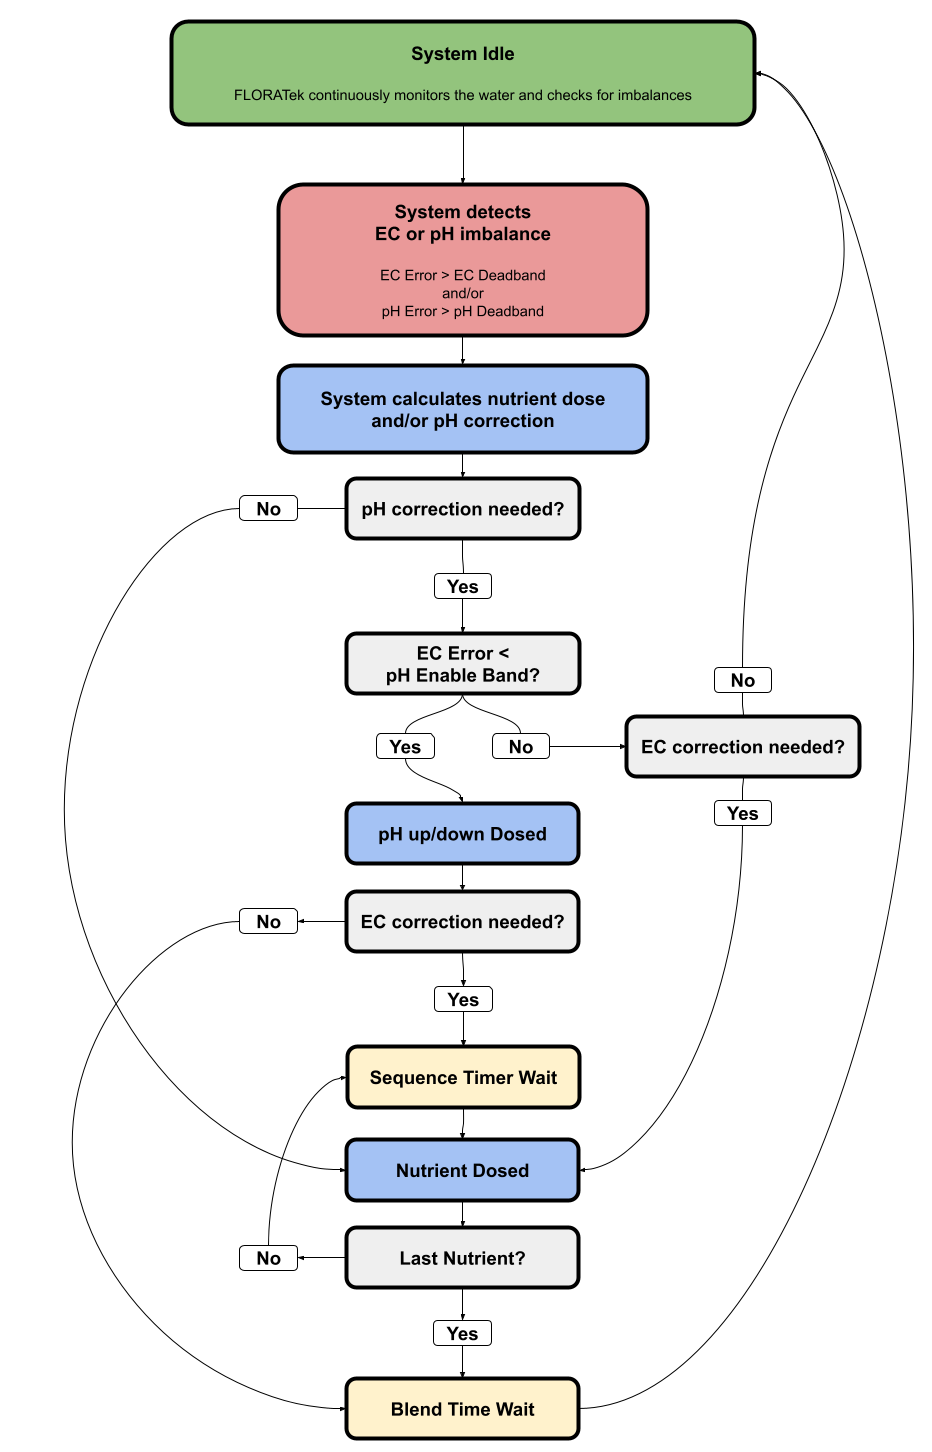
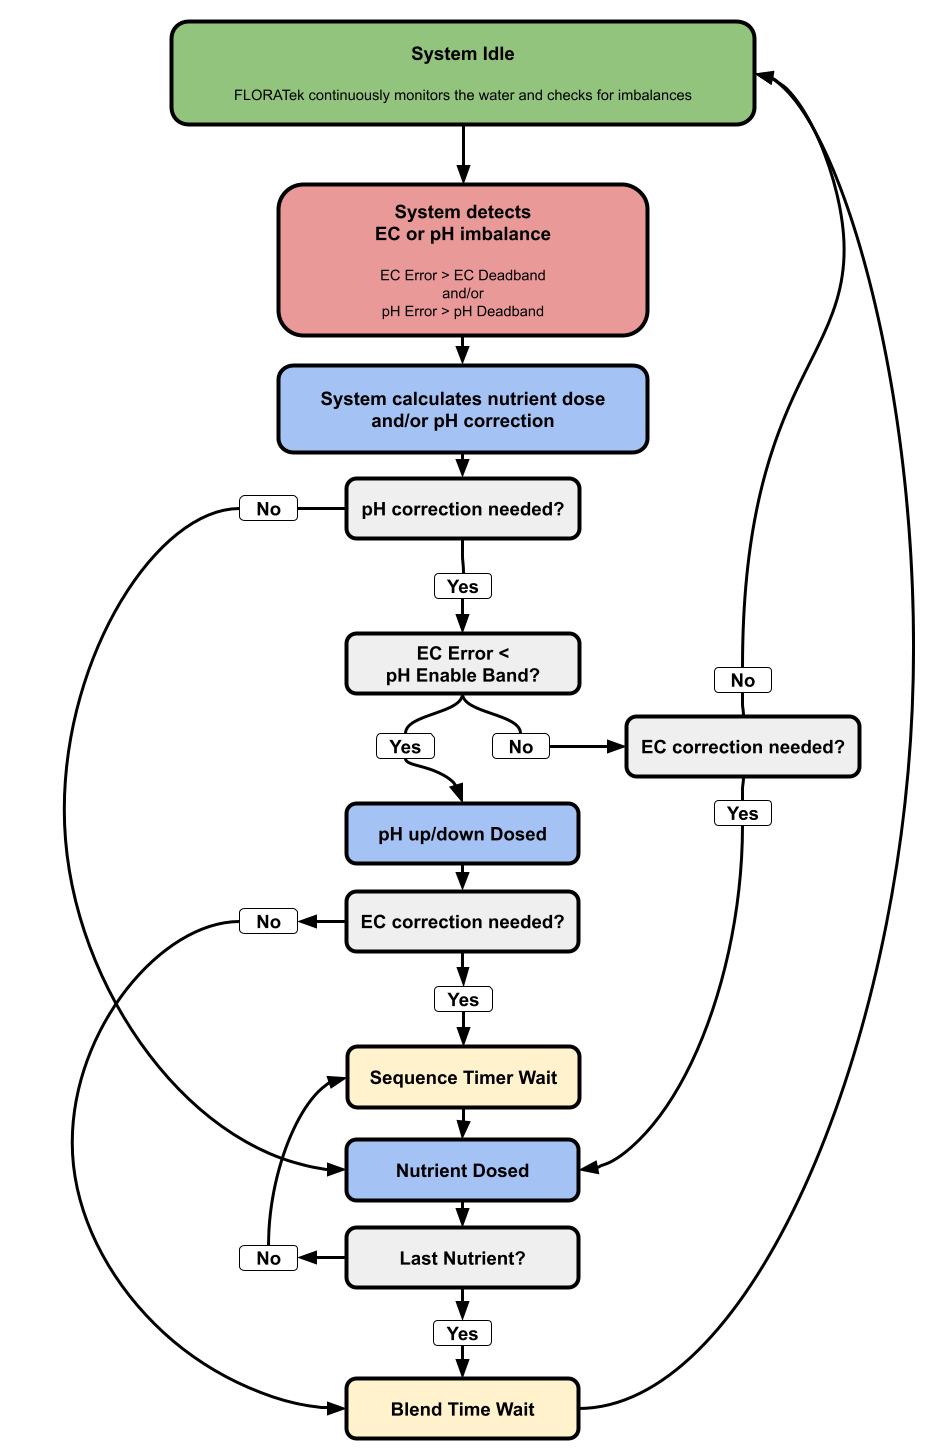
Added info to How It Works section

diff --git a/docs/source/how-it-works.rst b/docs/source/how-it-works.rst
@@ -8,8 +8,35 @@ The Dose Cycle
 
 At first glance, the dose cycle may seem complicated and confusing, but it has been carefully designed to automatically provide pH and EC corrections in the most efficient way possible. 
 
-Many of the variables that impact the dose cycle are set in the settings menu, but the basic flow will always remain unchanged. 
+Many of the variables that interact with the dose cycle are set in the menu, but the basic flow will always remain unchanged. 
 
 .. figure:: images/DosingAlgorithm.png
    :align: center
    :alt: Dosing Algorithm
+
+When the user pushes the RUN button, the control will enter the dose cycle. It will either immediately enter the idle mode, or begin dosing if the EC and/or pH are out of balance. 
+
+Control States
+----------------
+
+The FLORATek control will always be in one of 4 states when in the run mode: Idle, Dosing, Sequence Waiting, or Blend Time Waiting. 
+
+Idle
+~~~~~~~~~~
+
+The control will be in the idle state when the pH and EC levels of your water are within the acceptable range of your setpoints. This range is set by the EC and pH deadband variables. Higher deadband values will result in less frequent dosing, while lower deadband values will result in more frequent dosing. 
+
+Dosing and Sequence Waiting
+~~~~~~~~~~
+
+Immediately upon detecting a pH or EC imbalance, the control will calculate the most effective dose (or doses) to correct the imbalance and enter the dosing state. If the EC is significantly out of range, pH dosing will be disabled until the EC is within the pH Enable Band. It may take 2 or 3 dose cycles for the EC rise to within the pH Enable Band. 
+
+If a particular dose cycle requires more than one dose, the control will enter the sequence waiting state in between every dose. In this state, the control is waiting for the first dose to finish and for the water to be mixed before pumping the next dose. For example, some nutrients within nutrient solutions can bind together if they come in contact without first being mixed into the water. 
+
+Blend Time Waiting
+~~~~~~~~~~
+
+Once all doses in a dose cycle have been added, the control will enter the blend time waiting state. In this state, the control is waiting for the water to be thoroughly mixed before it takes another measurement and begins the next dose cycle. 
+
+If the blend time is set too low, the control will quickly overshoot your setpoints. If this number is too high, the control will take an excessively long amount of time to reach your setpoints. Always start with a blend time higher than you believe is appropriate! It is much safer for your plants if the control slowly reaches your setpoints compared to if the control overshoots your setpoints. The blend time can be tweaked as you learn how "fast" or "slow" your hydroponic system reacts to doses being added.
+

diff --git a/docs/source/dosing-setup.rst b/docs/source/dosing-setup.rst
@@ -1,7 +1,17 @@
 Dosing Setup
 ============
 
-Frequently-adjusted settings pertaining to your current nutrient schedule and grow cycle.
+Once your FLORATek setup menus are configured, it is time to input information on your desired nutrient dosing. Your control will use this information to calculate how much of each nutrient to add. You can find this information on the desired stage/week of your nutrient's feedchart.
+
+The Dosing Setup menu will display the current growday for your convenience. This can be helpful when referencing the feedchart for your nutrient system.
+
+All nutrient setpoints are in mL/gallon. Note that the FLORATek 4 does not use the nutrient setpoints directly when dosing - it examines all of your nutrient setpoints to determine the desired nutrient ratio, then uses that ratio to accurately dose to your EC Setpoint.
+
+
+
+
+Menu Settings
+-------------
 
 Current Growday
 ---------------
@@ -36,12 +46,3 @@ Use to set the current growday to 1.
 Reset Current Dose
 ------------------
 When the control is paused, this function can be used to reset the current dose calculations.
-
-Using Dosing Setup
-------------------
-
-Once your FLORATek setup menus are configured, it is time to input information on your desired nutrient dosing. Your control will use this information to calculate how much of each nutrient to add. You can find this information on the desired stage/week of your nutrient's feedchart.
-
-The Dosing Setup menu will display the current growday for your convenience. This can be helpful when referencing the feedchart for your nutrient system.
-
-All nutrient setpoints are in mL/gallon. Note that the FLORATek 4 does not use the nutrient setpoints directly when dosing - it examines all of your nutrient setpoints to determine the desired nutrient ratio, then uses that ratio to accurately dose to your EC Setpoint.
